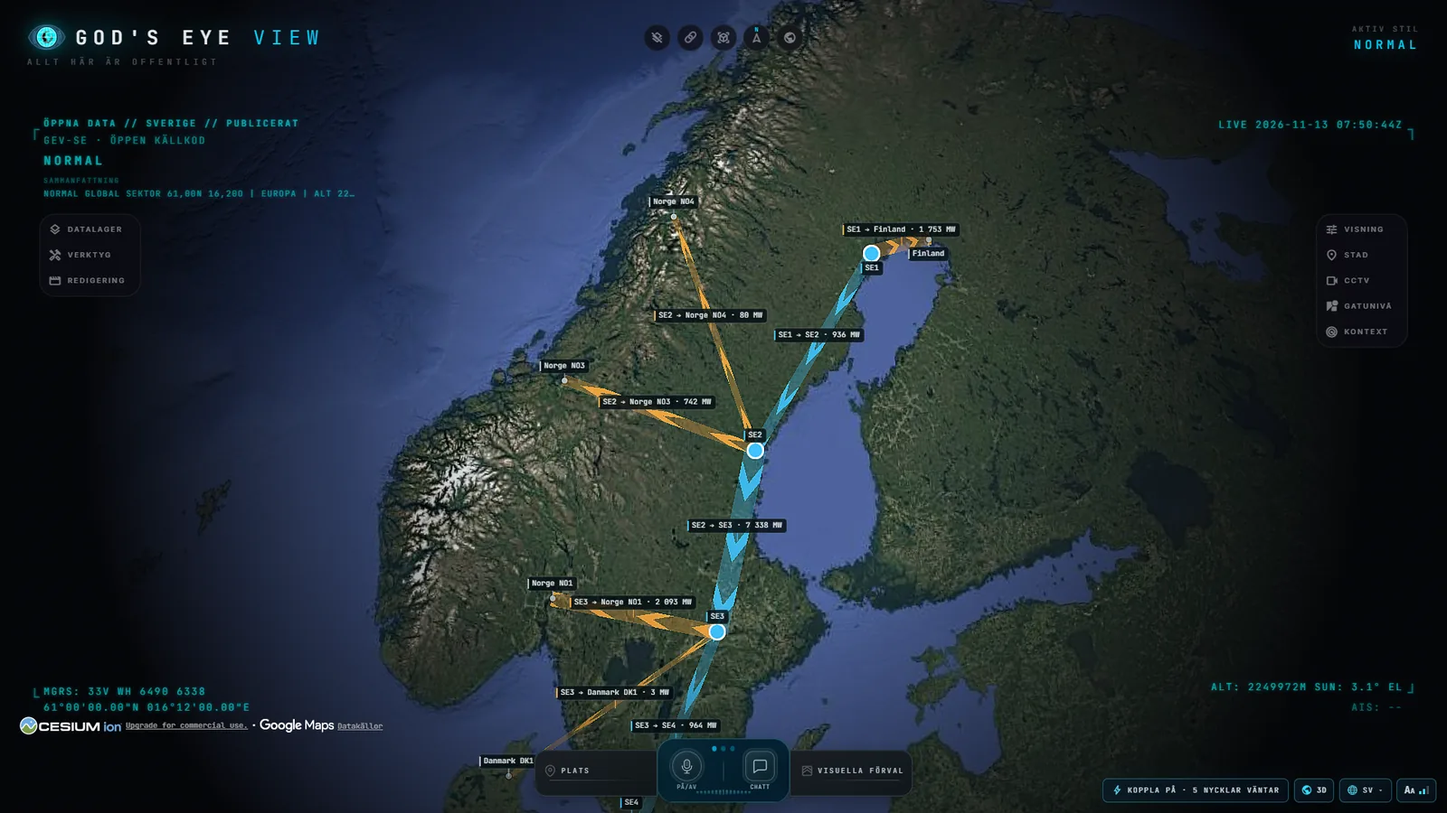
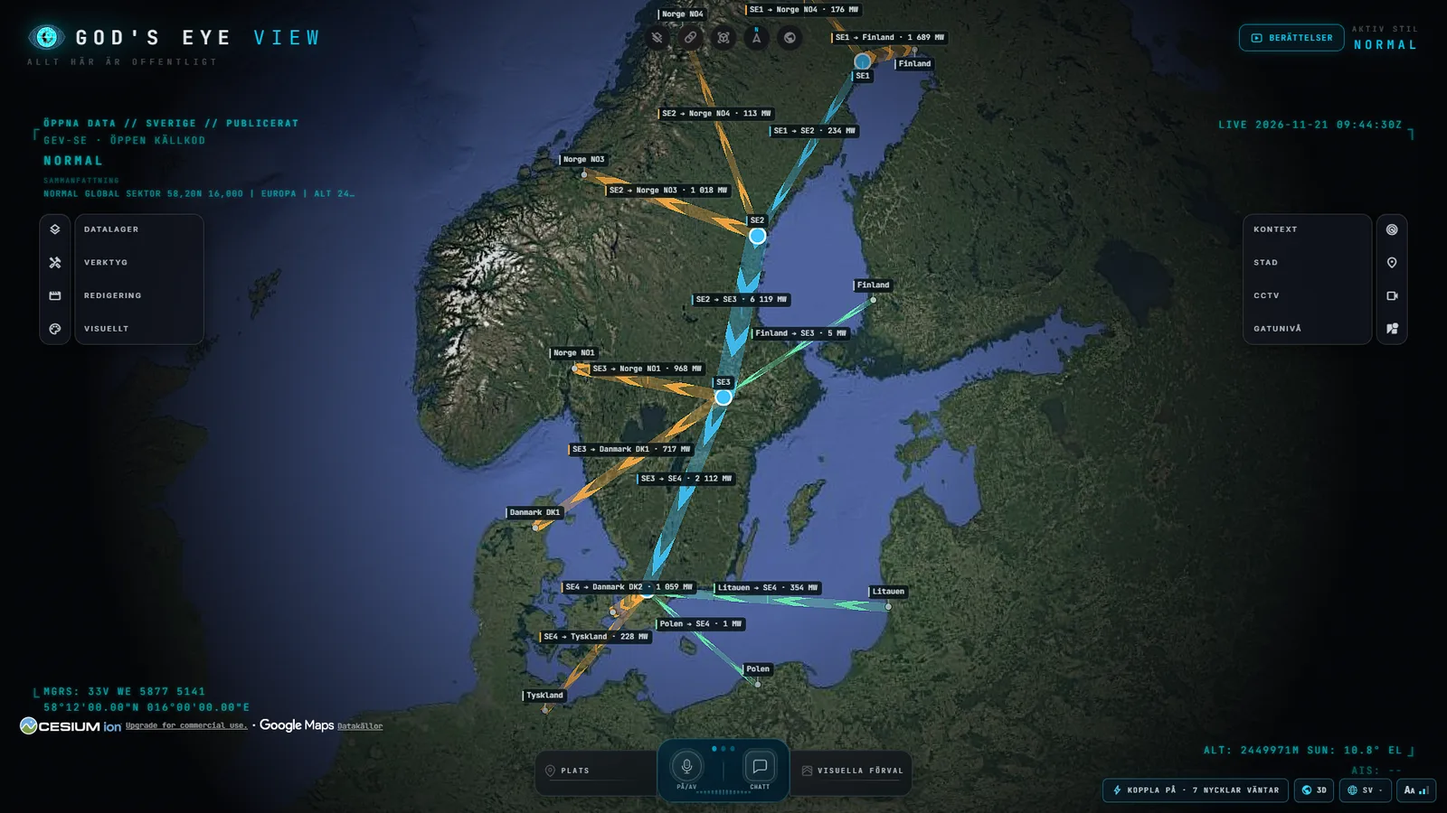
Docs: power grid and election rows, key list, power grid capture
DATA_SOURCES gains rows for the power grid (ENTSO-E's flows) and the
2026 election districts (Valmyndigheten) and drops the descriptions of
the original's removed features; the ODbL lines for the OSM data still
bundled in the repository stay. .env.example names everything the
Trafikverket key is used for. The power grid capture in README is
retaken so SE4 and its links south show above the dock.

diff --git a/DATA_SOURCES.md b/DATA_SOURCES.md
@@ -26,7 +26,7 @@ How to read this:
 | **Google Street View** (Maps JavaScript API) | Street Level, on the Google 3D map only (Google's terms): Google's panorama viewer and nearest-panorama lookups; panorama dates and addresses kept for the session only | Google Maps Platform ToS (your own key + billing; every panorama load is billed) | "Street View imagery © Google" on the globe while the provider is on, and Google's logo and terms in the viewer |
 | **KartaView** (`api.kartaview.org` coverage tiles and photo API, `cdn.kartaview.org` image proxy, `storage*.openstreetcam.org` photos) | Street Level: coverage lines (z13–14 JSON tiles; with the imagery filter on, KartaView's filtered PNG tiles as a mask), nearest-photo lookups, the photo's sequence and the photo itself, fetched by the browser. Keyless; nothing cached beyond the session | Imagery [CC BY-SA 4.0](https://kartaview.org/terms) (KartaView terms §4); the public API needs no token | "© KartaView contributors, CC BY-SA 4.0", shown on the globe while the provider is on |
 | **Panoramax** (`api.panoramax.xyz` meta-catalogue: vector tiles and STAC search; pictures from the federated instance holding each one, e.g. `panoramax.openstreetmap.fr`, `panoramax.ign.fr`) | Street Level: coverage lines, nearest-picture lookups, a sequence's pictures as cones, and the picture itself, fetched by the browser. Keyless; tiles cached by the browser for an hour (the API's own header) | Per picture: mostly [CC BY-SA 4.0](https://creativecommons.org/licenses/by-sa/4.0/), IGN's [Licence Ouverte 2.0](https://www.etalab.gouv.fr/licence-ouverte-open-licence/); the API needs no token | "© Panoramax contributors, licence per picture" on the globe while the provider is on; the caption names each picture's author and licence |
-| **OpenStreetMap** | Map and place data (roads, military areas and names, ALPR, place search, outlines); via vector tiles, hourly ALPR extract, bundled data, Nominatim and optional self-configured Overpass | [ODbL 1.0](https://opendatacommons.org/licenses/odbl/1-0/) | © OpenStreetMap contributors |
+| **OpenStreetMap** | Map and place data (roads, ALPR, place search, outlines, bundled area names); via vector tiles, hourly ALPR extract, bundled data, Nominatim and optional self-configured Overpass | [ODbL 1.0](https://opendatacommons.org/licenses/odbl/1-0/) | © OpenStreetMap contributors |
 | **Google Map Tiles API** (Photorealistic 3D Tiles) + Places/Geocoding | The 3D globe, voice scene context, and on-demand nearby installation search                                                         | Google Maps Platform ToS (proprietary, your own key + billing)                                                                                                                                                                                                                                                                                        | "Google" / "Google Maps" logo — **shown in-app**, required                                                                                  |
 | **OpenSky Network**                                                   | **Not asked in the Swedish version** (flights come from adsb.lol; `FLIGHTS_SOURCE=opensky` brings OpenSky back and needs its written permission). Primary worldwide live-flight snapshot                                                                                              | Non-commercial research/education license                                                                                                                                                                                                                                                                                                             | Schäfer et al., _"Bringing Up OpenSky"_, IPSN 2014 + opensky-network.org                                                                    |
 | **adsb.lol point API**                                                | The Swedish version's flight source (in the original a bounded live-flight fallback when OpenSky has no usable snapshot); GNSS Integrity layer (aircraft-reported NIC/NACp and GPS-loss integrity facts, via `/api/gnss-integrity`, 60 s server cache)                                                                    | ODbL 1.0                                                                                                                                                                                                                                                                                                                                              | adsb.lol contributors; `api.adsb.lol/v2/lat/{lat}/lon/{lon}/dist/{radius}`                                                                  |
@@ -49,7 +49,7 @@ How to read this:
 | **iNaturalist API** (`api.inaturalist.org/v2/observations`, `/v1/grid/{z}/{x}/{y}.grid.json`) | Wildlife Sightings layer: verifiable wildlife observed within the last 48 h (whales 7 d), by observation time, in the current view, with taxon, observation time, quality grade and eligible photo | Per-record licences; observations default CC BY-NC. Photos CC0/BY/BY-SA/BY-NC/BY-NC-SA shown; ND and all-rights-reserved photos link-only. Keyless via `/api/inaturalist/observations` (5-min cache; global sample 10 min; stale ≤ 1 h; 60 requests/min and 8,000/day upstream caps). **NonCommercial content:** commercial redistributors must filter to CC0/BY/BY-SA or remove the layer. No AI training on this content | "Wildlife sightings: iNaturalist contributors (licences per record; photos credited on each card)" |
 | **Acartia** (`acartia.io/api/v1/sightings/current`) | **Not read in the Swedish version.** Wildlife Sightings layer: Salish Sea marine mammal reports with validated species, observation time, reporting provider and trust flag; WHALES includes only the frozen cetacean list | [CC BY 4.0](https://creativecommons.org/licenses/by/4.0/), each provider credited per sighting. Keyless via `/api/acartia/sightings` (10-min cache; stale ≤ 24 h). Positions rounded to 0.01° on the server; free-text comments excluded. Marine-conservation use; Be Whale Wise | "Wildlife sightings: Acartia (CC BY 4.0; each provider credited per sighting) · Be Whale Wise" |
 | **OpenFreeMap / OpenMapTiles** | Vector tiles | OpenStreetMap data under ODbL 1.0 | OpenFreeMap © OpenMapTiles |
-| **Overture Maps Foundation** | Military area names pack | [ODbL 1.0](https://opendatacommons.org/licenses/odbl/1-0/) | Overture Maps Foundation |
+| **Overture Maps Foundation** | Area names pack bundled from the original project (see Bundled snapshots); not shown in the Swedish version | [ODbL 1.0](https://opendatacommons.org/licenses/odbl/1-0/) | Overture Maps Foundation |
 | **TomTom Traffic API** (flow vector tiles)                            | **Left unset in the Swedish version** (`TOMTOM_API_KEY` empty; the traffic layer runs its simulation). Even with a key the proxy answers every tile that touches Sweden (Natural Earth's outline) with an empty tile and never asks TomTom there. Traffic roads and live congestion (optional, BYOK)                                                                     | [TomTom for Developers terms](https://docs.tomtom.com/legal/terms-and-conditions) (proprietary, your own key; free tier currently 200K tile requests/month — see [current pricing](https://docs.tomtom.com/pricing/))                                                                                                                                                       | "Traffic flow data © TomTom" — registered when live mode activates                                                                          |
 | **Photon** (komoot)                                                   | Keyless place search — the fallback when no Google Maps key is configured, or when Google declines the Geocoding request            | Service: free public instance, [fair use](https://photon.komoot.io) (no bulk/heavy use); underlying data: **ODbL 1.0**                                                                                                                                                                                                                                | "Photon (komoot)"                                                                                          |
 | **Open-Meteo**                                                        | Current weather in the cockpit Local Info page and cockpit-local dynamic atmospheric effects                                        | [CC BY 4.0 data licence and adjacent-link attribution requirement](https://open-meteo.com/en/licence)                                                                                                                                                                                                                                                 | Linked "Weather data by Open-Meteo.com" beside the displayed local data                                                                     |
@@ -106,6 +106,7 @@ How to read this:
 | **NOAA SWPC** planetary Kp forecast (`services.swpc.noaa.gov/products/noaa-planetary-k-index-forecast.json`) and **SMHI** snow1g cloud cover | City dossier, NOW: tonight's northern lights outlook for the town (forecast Kp in the dark hours against the Kp the latitude needs, the mean cloud cover, the dark spell and the best hour), beside the original's OVATION aurora layer | NOAA public domain, SMHI CC BY 4.0, no keys. `/api/aurora-outlook?lat=&lon=` keeps Kp and each 0.1° cloud cell half an hour; darkness is the sun below −10° (src/auroraModel.js). |
 | **Wikidata** sights (`query.wikidata.org/sparql`, `wikibase:around`) with **Swedish Wikipedia** and **Wikimedia Commons** | City dossier, SIGHTS: castles and palaces, fortresses, churches and cathedrals, museums, runestones, ancient monuments and ruins, manors, monuments, waterfalls, nature reserves and national parks, and lighthouses within 12 km of the town, marked on the map; the chosen one's article and Commons picture | Wikidata CC0; Wikipedia text CC BY-SA 4.0 (linked, not copied); Commons pictures under their own licences (shown as Commons' own thumbnails). `/api/city-sights?lat=&lon=` keeps each town's list a day; at most 40 sights, 8 of a kind, those with an article, a picture or a notable kind first. |
 | **Elpriset just nu.se** (`elprisetjustnu.se/api/v1/prices/<year>/<month>-<day>_<zone>.json`) | Electricity Prices (Sweden) layer: Nord Pool day-ahead spot price per Swedish bidding zone (SE1–SE4), per quarter-hour, today and tomorrow, in SEK and EUR per kWh excluding VAT, grid fee and energy tax | Free JSON, no key; the operator offers it free for any use. The prices are Nord Pool's, read from ENTSO-E, where day-ahead prices are not on the list of data free for re-use; credit "Elpriset just nu.se (Nord Pool via ENTSO-E)". `/api/electricity-prices` fetches the eight day files (today and tomorrow per zone; tomorrow answers 404 until the afternoon auction), caches 15 minutes and drops the cache at the Stockholm midnight. No zone-border geometry is used: each zone is one labelled point in a town inside it. | "Elpriset just nu.se" |
+| **ENTSO-E Transparency Platform** (`web-api.tp.entsoe.eu/api`, physical cross-border flows) | Power Grid (Sweden) layer: the flow over each of the 14 links between the Swedish bidding zones SE1–SE4 and the neighbouring zones, as the newest quarter-hour ENTSO-E has published (up to an hour old), drawn as arrows with MW | [CC BY 4.0](https://www.entsoe.eu/data/transparency-platform/) for the flows. A free security token in `ENTSOE_SECURITY_TOKEN`, server-side only and never logged; without it the layer stays empty. `/api/power-grid` refreshes every quarter-hour (well under ENTSO-E's 400 requests a minute) and serves the last answer, marked stale, for two hours after a failure. Generation and load are not part of ENTSO-E's data free for re-use and are not shown. | "ENTSO-E Transparency Platform (CC BY 4.0)" |
 | **Sveriges Radio** (`api.sr.se/api/v2/traffic/messages`) | **Not used since 2026-11-13: the layer is hidden and SR is not asked (SR's terms allow its material only through linking or streaming).** Traffic Reports (Sweden) layer: the traffic messages SR's traffic desks publish (road incidents, public-transport disruptions, planned works), each with a point, priority 1–5 and category | Open API, no key; content © Sveriges Radio. SR's API terms ([api-villkor](https://sverigesradio.se/artikel/api-villkor)): the material may be used where it is linked to SR, must be clearly credited, must not be modified and must not be used in marketing without SR's approval, so each card shows the whole report as published, credits SR and opens sverigesradio.se/trafik. SR no longer maintains the API. `/api/sr-traffic` caches 3 minutes and serves the last list marked stale for up to an hour. Texts are Swedish. | "Sveriges Radio" |
 | **Kolada** (RKA, `api.kolada.se/v3/data/kpi/...`) | City dossier (Swedish fork), POPULATION and SOCIETY: the municipality's population year by year (N01951, also by sex), mean age (N00959), total tax rate (N00900), median income ages 20–64 (N00906), openly unemployed ages 18–65 (N03937), municipal election turnout (N05401) and party shares (N05801–N05809) | Open API, no key; free, commercial use included ([användarvillkor](https://www.kolada.se/om-oss/api/)); credited "Kolada" as Kolada asks, never for values derived here. `/api/city-dossier` reads the last eleven years for one municipality and keeps the answer a day. Kolada repeats the latest election result every year until the next, so the dossier names the election year (every fourth year from 2022). | "Kolada (RKA)" |
 | **SCB** (PxWebApi 2.0, `statistikdatabasen.scb.se/api/v2`, tables "Förtätning och utglesning av tätorter, folkmängd efter tätortens basår och tätort" (TAB4060) and the newest "Folkmängden per månad efter region, ålder och kön" (TAB6471 in November 2026)) | City dossier, POPULATION: the seat town's population year by year inside its latest delimitation boundary (e.g. 2025 within the 2023 boundary), and the municipality's population, men and women at the end of the latest published month | Open API, no key, CC0; credited "SCB". At most 30 requests per 10 seconds per address. The town is matched by name among the codes starting with the municipality code; each table is found by a title search and the one with the latest period wins, since SCB splits a series into new tables over time. Moved from PxWebApi 1, which stops at the turn of 2026/2027, on 2026-11-13. These replace Kolada's yearly municipality figure and Wikidata's delimitation-year town figure when they answer. | "SCB" |
@@ -117,6 +118,7 @@ How to read this:
 | **SCB, Befolkning 1 km-rutor** (WFS `geodata.scb.se/geoserver/stat/wfs`, newest `stat:befolkning_1km_<year>` layer) | Retail Chains (Sweden) store card: about how many people live within 2 km of the store (1 km cells whose centres lie within 2 km), summed at snapshot build time | [CC0 1.0](https://creativecommons.org/publicdomain/zero/1.0/), no fees or access constraints per the service metadata; only `rutid_scb` and `beftotalt` are fetched (the cell id carries its SWEREF 99 TM corner). Read by `scripts/build-company-stores.mjs`, never by the app. | "SCB" |
 | **SCB, Befolkning 1 km-rutor 2025** (WFS `geodata.scb.se/geoserver/stat/wfs`, `stat:befolkning_1km_2025`, reference date 2025-12-31, SWEREF 99 TM) | Population per km² (Sweden) layer: the 103,464 populated 1 km squares (10,578,118 people) as flat coloured squares on the ground close up, and 5, 10 and 25 km squares summed from them farther out; a click on a summed square gives its people rounded and its people per km² | [CC0 1.0](https://creativecommons.org/publicdomain/zero/1.0/). Only `rutid_scb`, `rutstorl`, `beftotalt` and `referenstid` are fetched, never ages or sexes. Bundled: `scripts/build-population-grid.mjs` (run by hand once a year) packs each 1 km square's corner and colour class, and each summed square's people, as integers (0.51 MB); `/api/population-grid` serves at most 3,000 squares nearest the view's centre. SCB already applies a statistical disclosure method to small counts; on top of that a 1 km square leaves the server as its colour class only (fewer than 5 people read "1–4"), has no card, is not in the analyst's records and never in a share link, and a summed square's people are rounded to 10 (100 from 10,000), with "fewer than 5" for less. The summed squares are processed data and are credited "processed from SCB data", not to SCB (SCB asks not to be named the source of reworked figures). | "Källa: SCB" (1 km) · "processed from SCB data" (5/10/25 km) |
 | **Valmyndigheten** (`val.se`, "Röster per distrikt, slutligt antal röster … kommunvalen 2026", xlsx) | City dossier, SOCIETY: every party's share of the votes in the 2026 municipal election and the turnout, per municipality (sheets "Antal_kommun" and "Valdeltagande_kommun") | Open data, no key; credited "Valmyndigheten". The workbook link is read from the 2026 raw-data page; the workbook (about 11 MB) is fetched once, only the two sheets are unpacked, and the parsed table is kept in `.gev-cache/city-dossier/`. Shares are of the parties' votes; local parties of at least 3 % are named, the rest summed as "other". Kolada's 2022 figures remain the fallback. | "Valmyndigheten" |
+| **Valmyndigheten** (`val.se`, "Valdistrikt i val 2026 – kartor" and "Röster per distrikt i riksdagsvalet 2026, slutlig rösträkning") | Election Districts 2026 (Sweden) layer: the 6,312 election districts with every party's share of the votes and the turnout in the Riksdag election, at most 1,200 districts in a view, nearest the centre first | Open data, no key; credited "Valmyndigheten". Built by hand with `scripts/build-election-districts.mjs` into `src/data/local_data/se_election_districts/riksdag-2026.json` (simplified district outlines in WGS 84); the app never asks val.se for it. | "Valmyndigheten" |
 | **Trafikverket** (`TrainStation`, `TrainAnnouncement`) | City dossier, NOW: the next six departures from the town's station (central station preferred, within 8 km) with destination, expected time, delay, track and Trafikverket's reason | The existing `TRAFIKVERKET_API_KEY` (CC0), server-side only; the part is simply absent without the key. `/api/city-transit` reads the station list once a day and departures once a minute per station. | "Trafikverket" |
 | **Swedavia** FlightInfo v2 (`api.swedavia.se/flightinfo/v2/{airport}/{departures|arrivals}/{date}`) and WaitTime Public v2 (`api.swedavia.se/waittimepublic/v2/airports/{airport}`) | City dossier, NOW, and the airport board (each airport's whole day, today or tomorrow, with check-in desks, gate times, baggage belts, codeshares, registration and Swedavia's own screen line): for towns within 45 km of a Swedavia airport (at most two, the busiest first), the next four departures and arrivals with destination or origin, scheduled and expected time, Swedavia's status, terminal and gate; at Arlanda, Landvetter and Bromma also the projected wait at each security checkpoint (ordinary lanes) | Free subscriptions at apideveloper.swedavia.se ("FlightInfo Free", about 10 000 calls a month; "WaitTime Free", the same), keys `SWEDAVIA_FLIGHTINFO_KEY` and `SWEDAVIA_WAITTIME_KEY`, sent server-side as `Ocp-Apim-Subscription-Key`. Each answer is kept five minutes per airport and each key stops at 300 upstream calls per Swedish day (9 300 in a 31-day month), after which the last answer read is shown; late in the evening the next day's list is read as well. Without a key the part is simply absent. |
 | **NOAA Aviation Weather Center** (`aviationweather.gov/api/data/metar?ids=…&format=json&taf=true`) | Airport board (header line and Weather tab) and the cockpit's Swedavia card: the latest METAR decoded (wind, gusts, visibility, cloud layers and ceiling, weather, temperature and dew point, QNH, flight category VFR/MVFR/IFR/LIFR) and the raw METAR and TAF for Swedavia's airports | US Government work, open, no key; credited "NOAA Aviation Weather Center (aviationweather.gov)". `/api/aviation-weather?ids=` takes up to six ICAO codes and keeps each station's report ten minutes; a failed read serves the last report kept. |
@@ -296,7 +298,7 @@ The optional Local ADS-B layer and the broadcast-FM receiver use radio you recei
 
 
 - **adsbdb enrichment.** `/api/adsbdb` resolves an ICAO hex to aircraft type, model name and registration, and the tracked flight's callsign to an airline and an origin/destination pair. Fan-out is deliberately small because adsbdb is a free community API that publishes no quota: at most 4 requests in flight, dispatches dripped to roughly 5/s, and each key asked for at most once per session (for the flights layer's enrichment, a lookup that failed temporarily, such as an outage, a timeout, a rate limit or an authorization refusal that may clear, may be asked again after a 60-second cool-down; an answer, found or not, and a permanent refusal such as a 404 are final; Local ADS-B lookups are asked once), with route lookups reserved for the tracked aircraft. The dev-server proxy caches each key for 24 hours in `.gev-cache/adsbdb.json`, negative answers included, so fresh entries survive server restarts. That gitignored cache remains local to the deployment and is not bundled with this repo. adsbdb publishes no general service license; its README says the route data may not be copied, published, or incorporated into other databases without the explicit permission of David J Taylor, Edinburgh. Deployers are responsible for obtaining any permission their use requires. Enrichment is best-effort and fail-silent — a flight that gets no answer keeps what the flight feed already gave it.
-- **Planespotters photos.** When you track an aircraft, the browser asks `https://api.planespotters.net/pub/photos/hex/{hex}` directly (the API answers cross-origin, so no key and no server proxy are involved) for that aircraft only, once per hex per session, through the same enrichment queue as adsbdb, with an 8-second timeout. A miss is remembered for the session; a request that failed temporarily (an outage, the timeout or a rate limit) may be asked again after a 60-second cool-down while the aircraft stays tracked, as for the flights layer's other enrichment. Either way no photo shows meanwhile. The first photo whose image is an `https://` URL on `*.plnspttrs.net`, and whose page is an `https://www.planespotters.net` URL is shown in the CONTEXT panel's CONTACTS view, under the tracked flight's name (`src/ui/views/panels/AwarenessPanel.vue`), and nowhere else; a vessel (see Open Vessel Photos below), an installation, a military aircraft or a converted TR-3B has none, and a military aircraft or TR-3B is never looked up. Anything else is dropped, so the app never shows or links outside Planespotters (`src/data/planespottersPhoto.js`, also exported as `gods-eye-view/sources/planespotters` for servers that cache the lookup). The photo follows the attribution rules: the thumbnail is hotlinked from the URL the API gives (never copied or re-hosted), the photographer's name is visible text next to it ("Photo © {photographer}"; a photo whose answer names no one is not shown, since the credit is the condition), and the photo and credit are a plain link to the photo's Planespotters page with `target="_blank" rel="noopener"` and never `rel="nofollow"`. If the image fails to load, the photo and its credit are hidden.
+- **Planespotters photos.** When you track an aircraft, the browser asks `https://api.planespotters.net/pub/photos/hex/{hex}` directly (the API answers cross-origin, so no key and no server proxy are involved) for that aircraft only, once per hex per session, through the same enrichment queue as adsbdb, with an 8-second timeout. A miss is remembered for the session; a request that failed temporarily (an outage, the timeout or a rate limit) may be asked again after a 60-second cool-down while the aircraft stays tracked, as for the flights layer's other enrichment. Either way no photo shows meanwhile. The first photo whose image is an `https://` URL on `*.plnspttrs.net`, and whose page is an `https://www.planespotters.net` URL is shown in the CONTEXT panel's CONTACTS view, under the tracked flight's name (`src/ui/views/panels/AwarenessPanel.vue`), and nowhere else; a vessel (see Open Vessel Photos below) has none. Anything else is dropped, so the app never shows or links outside Planespotters (`src/data/planespottersPhoto.js`, also exported as `gods-eye-view/sources/planespotters` for servers that cache the lookup). The photo follows the attribution rules: the thumbnail is hotlinked from the URL the API gives (never copied or re-hosted), the photographer's name is visible text next to it ("Photo © {photographer}"; a photo whose answer names no one is not shown, since the credit is the condition), and the photo and credit are a plain link to the photo's Planespotters page with `target="_blank" rel="noopener"` and never `rel="nofollow"`. If the image fails to load, the photo and its credit are hidden.
 - **Open Vessel Photos.** When you select a vessel with a nine-digit MMSI, the browser asks `https://openvesselphotos.org/v1/mmsi/{mmsi}` directly (the API is keyless and answers cross-origin, so no key and no server proxy are involved; account credentials are never sent) for that vessel only, once per MMSI per session, with an 8-second timeout. A miss (a 404 or a vessel without photos) is remembered for the session; a failed request may be asked again after five minutes. The first photo whose image is an `https://openvesselphotos.org` URL and which names a licence is shown, at the 800 px size, in the CONTEXT panel's CONTACTS view under the vessel's name and MMSI (`src/ui/views/panels/AwarenessPanel.vue`), and nowhere else (`src/data/openVesselPhoto.js`, `src/layers/vessels/photos.js`). The image is hotlinked from the URL the API gives (never copied or re-hosted); the photographer and licence are visible text next to it ("Photo: {photographer} · {licence}", or "Photo · {licence}" when the answer names no one), and the photo and credit link to the vessel's Open Vessel Photos page with `target="_blank" rel="noopener"`. If the image fails to load, the photo and its credit are hidden.
 - **Launch Library 2.** `/api/launches` makes a server-side rolling-30-day query against the supported v2.3 detailed launch endpoint, caches successful responses for 15 minutes in memory and on disk, and serves the last successful response during a throttle or transient outage. Anonymous access is limited to 15 calls/hour; deployments can provide `LL2_API_TOKEN` for authenticated access. The Space Devs' published terms permit using and sharing the API data in any form, ask users not to forward it without adding value, disclaim complete accuracy, and encourage—but do not require—attribution. This app keeps a courtesy credit. Payload and stage/recovery records are shown only when supplied. Failed launches expose their source status and never receive fallback orbit geometry or a live/estimated marker. LL2 supplies launch context and event timing, not continuous ascent telemetry or live orbital state.
 - **TfL JamCams.** The camera list comes from the keyless `api.tfl.gov.uk` endpoint (an optional `TFL_APP_KEY` raises its rate limit); frames come from TfL's public S3 bucket. The "Powered by TfL Open Data" attribution is required by TfL's terms and is registered in the Data attribution popover.
@@ -339,7 +341,6 @@ The optional Local ADS-B layer and the broadcast-FM receiver use radio you recei
 - **iNaturalist.** Keyless. `/api/inaturalist/observations` returns cached random view samples (newest first globally), at most 200 per request. Recency uses observation time: the v1 `d1` filter and a rolling 48 h cutoff (whales 7 d); date-only rows qualify when their day starts within the window. Observation caches last 5 min (global 10 min), with stale fallback ≤1 h. `/api/inaturalist/grid` supplies density counts, cached 15 min. Both share a paced queue capped at 60/min and 8,000/day; only request counters persist in `.gev-cache/`. The server caches projected records, never raw responses. Private records are excluded; obscured coordinates become 0.2° cells. Observer identity is retained only for photo attribution. Eligible photos load directly from `inaturalist-open-data.s3.amazonaws.com`, with creator credit on ambient cards and creator/licence on selection. Per-record licences and noncommercial restrictions apply as listed above. Attribution appears in the layer row and Data attribution popover. Coverage follows community observations, not a census; Acartia adds Salish Sea marine mammals.
 - **iNaturalist grid (cell schema risk).** `/api/inaturalist/grid` shares observation-date, taxa, quality, pacing and budget rules with observations. A strict 64×64 UTFGrid schema guard fails closed; only logical-cell keys, counts and coordinates survive projection. Raw tiles, observation identifiers and free text are not retained. Projected tiles use a 400-entry LRU, 15-minute freshness and at most one hour of stale fallback. Views request at most six tiles; cached and adjacent-zoom coverage publishes before network waits, independently of observation pages. Cells supply a noninteractive density glow ranked within the view, from teal to amber with mono/CRT support. Every sighting badge comes from a real observation at its public position. Counts describe observations, not a population census. The endpoint is documented in the v1 and v2 API docs as “Grid Tiles UTFGrid” (`/grid/{z}/{x}/{y}.grid.json`), but its per-cell records are not specified; schema drift disables grids until revalidated. See `docs/KNOWN-ISSUES.md`.
 - **Acartia.** Keyless. `/api/acartia/sightings` reads the current 7-day marine-mammal feed for ALL, MAMMALS and WHALES views intersecting 45.5–50.5° N, 126–121° W in the Salish Sea. WHALES accepts recognized cetaceans; other identified marine mammals appear under ALL/MAMMALS. The server rounds positions to 0.01° and drops comments before caching projected records (10 min fresh, stale ≤24 h); raw responses are not retained. Selected text cards credit the reporting provider under CC BY 4.0 and show Be Whale Wise guidance. `/sightings/current` answers without a key today, but Acartia's README asks API users to create an account and generate an API key on the [Acartia dashboard](https://acartia.io/) and to follow its [community guidelines](https://acartia.io/register). Attribution also appears in the layer row and Data attribution popover. Opportunistic sightings, not a census.
-- **Mapped installations.** OpenFreeMap military polygons use a bundled Overture/OSM name index; wide views show named points. Optional operator-configured Overpass and explicit Google Places searches keep their own source paths. Mapped data does not establish current activity or complete coverage.
 - **Place search.** Named-place fly-to uses Google Geocoding when a Maps key is configured, then Photon (`PHOTON_URL`; unset uses the public instance, empty disables it), then `/api/geocode` (Nominatim search) when neither answers. `/api/geocode` and the voice outline route `/api/geocode/outline` share one Nominatim queue (`NOMINATIM_URL`; unset, empty and invalid values disable it; an operator must explicitly select an authorized endpoint): one request at a time at least 1.1 s apart, an identifying `User-Agent` and `Referer`, a short queue that refuses a burst, a pause after 429/403/5xx answers (honouring `Retry-After` in full), at most one retry after a network failure, and a per-install daily cap on public-instance requests (`NOMINATIM_DAILY_CAP`, default 50). Processes using the same installation state file hold one lock through the actual fetch invocation and recording the next public start, with the daily slot persisted before invocation; restarts share that count, spacing and any pause. An unfinished dispatch marker fails closed until operator recovery; it is never automatically reclaimed. Public access fails closed if the state file cannot be read, locked, written or semantically validated. This coordination does not span independent installations or state directories and does not establish an application-wide public-service allowance or authorize public use. An operator-selected non-public endpoint is outside the public cap, spacing and durable-state requirement; an upstream cooldown is kept with the endpoint that returned it rather than leaking across operator URLs. Answers are cached on disk (outlines 90 days, places 30 days, no-results 24 hours); failures are not cached. Outlines are looked up only for an explicit ask, after bundled data and any configured Overpass, and only results whose type suits the ask are used. Administrative outline responses expose country/admin-1/admin-2 identity only when the selected Nominatim row has a recognized, unambiguous address type consistent with its own name; numeric rank, ambiguous types, missing fields and contradictory names do not manufacture identity. It is not used for systematic or bulk queries.
 - **Street and building outlines.** Voice street highlights, pointed-at buildings and grounds use the OpenFreeMap vector tiles the traffic layer already loads. Traffic and outlines share one bounded pending fetch/decode owner per immutable XYZ tile; materialized outline geometry is charged to the retained-byte ceiling and capped by coordinate count. Consumer result caches and request lifetimes remain independent, while eviction or explicit teardown cancels queued idle projections and releases their decoded owner. No Overpass request is made unless `OVERPASS_UPSTREAMS` is configured. Named grounds require a returned name matching the selected place, except that an ask whose head noun names a kind of grounds (a school, university or college, hospital, cemetery, stadium or zoo) may use the part of the smallest unnamed tile area of that class that holds the resolved place; a differently named area never answers. Other anonymous landcover polygons cannot establish identity, so unsupported grounds stay unavailable rather than borrowing a nearby POI name.
 - **Voice areas and place search.** Voice areas (`resolve_area`) use the same outline sources as voice outlines. Voice place search (`osm_query`, `/api/osm/features`) runs only on an operator-configured Overpass: a fixed list of kinds, a bounded box and result count, one query at a time, answers cached for a day. It never uses Nominatim.

diff --git a/SVERIGE.md b/SVERIGE.md
@@ -423,6 +423,15 @@ git merge origin/main
 
 ## Logg över justeringar
 
+### 2026-11-21 (mindre rättelser)
+- DATA_SOURCES har fått raderna för Kraftsystemet (ENTSO-E:s flöden) och
+  Valdistrikt 2026 (Valmyndigheten), och beskrivningarna av originalets
+  borttagna funktioner är borta. Licensraderna för de OSM-data som följer
+  med repot står kvar, eftersom ODbL kräver dem.
+- `.env.example` räknar upp allt Trafikverkets nyckel används till.
+- Bilden av kraftsystemet i README är omtagen, så att SE4 och förbindelserna
+  till Danmark, Tyskland, Polen och Litauen syns ovanför verktygsraden.
+
 ### 2026-11-20 (tre nya filmer)
 - README länkar till tre nya filmer på 29 sekunder, var och en som video
   och som Short: Stockholm i rusningstid (inspelad fredag kl. 16), Sverige
